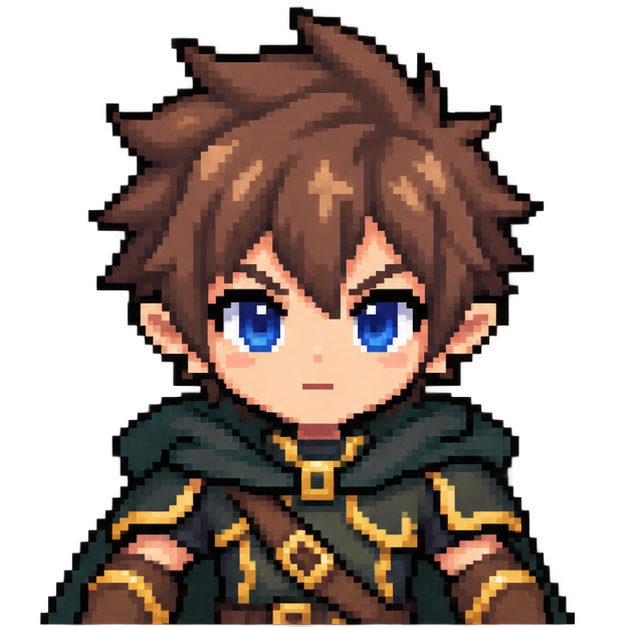
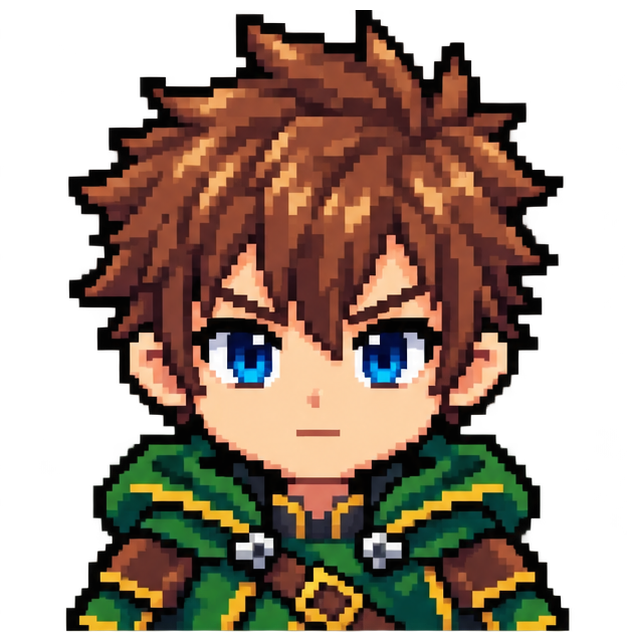
地下迷宮ビルダーズ: ストーリー試作を全8表情(驚き/照れ/あせり/悪い笑み追加)に対応し、全40通りの表情を使ったコントに刷新
- 新素材の2x2シート(yuusya2/yumi/yumi2/koorinomadoushi2/souryo2/maou2)を切り出し、5キャラ×新4表情=20枚と、弓使いの新デザイン基本4表情を生成
- 上下段の境目は胴体の下端をそろえて切り出し（上段下端の混入なしを確認）
- 台詞は3回の見返しで修正：話題転換の唐突さ、表情と台詞のずれ、矛盾（帰る→ポスター発覚の順序）、返事の抜け、オチのつながりなどを直した
- 全セリフが1行に収まることと、5キャラ×8表情の網羅を機械検証済み

diff --git a/ChimyakuDungeon/story_test.html b/ChimyakuDungeon/story_test.html
@@ -130,7 +130,7 @@
 </div>
 
 <script>
-// ==== 登場キャラクター：images/kao/<ファイル接頭辞>_<表情>.png（normal/smile/angry/cry） ====
+// ==== 登場キャラクター：images/kao/<ファイル接頭辞>_<表情>.png（normal/smile/angry/cry/surprise/shy/panic/grin の8表情） ====
 const CHARACTERS = {
     maou:       { label:'魔王',           prefix:'maou1' },
     swordsman:  { label:'勇者（剣士・男）', prefix:'swordsman_m' },
@@ -138,46 +138,77 @@ const CHARACTERS = {
     archer:     { label:'弓使い（男）',    prefix:'archer_m' },
     ice_mage:   { label:'氷の魔導士（女）', prefix:'ice_mage_f' },
 };
-const EXPR_LABEL = { normal:'通常', smile:'笑顔', angry:'怒り', cry:'涙' };
+const EXPR_LABEL = { normal:'通常', smile:'笑顔', angry:'怒り', cry:'涙', surprise:'驚き', shy:'照れ', panic:'あせり', grin:'悪い笑み' };
 function exprFile(charKey, expr){ return `images/kao/${CHARACTERS[charKey].prefix}_${expr}.png`; }
 
 // ==== テスト用の台詞データ（本編では別ファイル・JSONなどに切り出す想定） ====
-// 5キャラ×4表情（通常・笑顔・怒り・涙）が最低1回ずつ出るように、玉座の間でのコメディな対決を組んである
+// 5キャラ×8表情（通常・笑顔・怒り・涙・驚き・照れ・あせり・悪い笑み）の全40通りが最低1回ずつ出るように、玉座の間でのコメディな対決を組んである
 // （難しい漢字はなるべく使わず、シリアスになりすぎないようにしてある）
 const SCRIPT = [
-    // ---- 対面：それぞれの第一声 ----
-    { char:'maou',      expr:'normal', text:'……よし、ついに勇者たちが来たか。よーし、かっこよく決めるぞ。' },
-    { char:'swordsman', expr:'normal', text:'ここが魔王の部屋か……なんか、ちょっと汚いな。' },
-    { char:'priest',    expr:'normal', text:'魔王さん、お掃除してないんですね……。' },
-    { char:'archer',    expr:'smile',  text:'よし、はりきっていくぞ！ 今日は調子がいいぞ！' },
-    { char:'ice_mage',  expr:'normal', text:'……ねえ、お菓子、持ってきた？' },
-    // ---- 魔王のあいさつ、開戦 ----
-    { char:'maou',      expr:'smile',  text:'くくく、よく来たな人間ども！ このワシが相手だぞ！' },
-    { char:'swordsman', expr:'angry',  text:'うわっ、急に大きい声出すなよ！ びっくりしたじゃないか！' },
-    { char:'maou',      expr:'angry',  text:'び、びっくりさせるのが仕事なんだよ！ もっと本気でこわがれ！' },
-    { char:'ice_mage',  expr:'angry',  text:'……じゃあ、本気出すね。えいっ。' },
-    // ---- 戦闘：一進一退 ----
-    { char:'archer',    expr:'normal', text:'よーし、矢を飛ばすぞ……あれ？ 矢、忘れてきた。' },
-    { char:'priest',    expr:'smile',  text:'大丈夫です、私が持ってます！ はい、どうぞ！' },
-    { char:'maou',      expr:'smile',  text:'ほう、なかなかやるな……って、まだ準備中じゃないか！' },
-    { char:'swordsman', expr:'cry',    text:'痛い！ 痛いって！ そんなに強くたたかないでくれ！' },
-    { char:'priest',    expr:'angry',  text:'魔王さん、もうちょっと優しくしてあげてください！' },
-    { char:'archer',    expr:'angry',  text:'よし、矢が届いた！ 今度は本気で行くぞ！' },
-    { char:'ice_mage',  expr:'smile',  text:'……当たった。えらいえらい、自分をほめよう。' },
-    // ---- 魔王、くずれる ----
-    { char:'maou',      expr:'cry',    text:'え……うそ、もう負けそうなの……？ 早すぎない……？' },
-    { char:'maou',      expr:'angry',  text:'ま、まだまだ！ ワシはあきらめないぞ！' },
-    { char:'priest',    expr:'cry',    text:'あれ、魔力切れちゃった……ごめんなさい……。' },
-    { char:'swordsman', expr:'smile',  text:'大丈夫、あとは僕にまかせて！ みんな、よく頑張った！' },
-    { char:'archer',    expr:'cry',    text:'……なんか、感動してきた。泣いてないぞ、これはただの汗だ。' },
-    { char:'ice_mage',  expr:'cry',    text:'……みんな、あったかい。なんか、うれしい。' },
-    // ---- 決着、そしてそのあと ----
-    { char:'maou',      expr:'cry',    text:'……あーあ、負けちゃった。今日のごはん、何にしようかな……。' },
-    { char:'swordsman', expr:'normal', text:'よし、終わったな。みんな、けがはないか？' },
-    { char:'priest',    expr:'smile',  text:'はい！ みなさんのおかげです、ありがとうございます！' },
-    { char:'archer',    expr:'smile',  text:'へへっ、やっぱり僕たち、最強だな！' },
-    { char:'ice_mage',  expr:'normal', text:'……帰ろう。お腹すいた。' },
-    { char:'maou',      expr:'normal', text:'まってろよー！ 次はもっと部屋をきれいにして、お菓子も用意して待ってるからなー！' },
+    // ---- 第1幕：魔王のひとり練習 ----
+    { char:'maou',      expr:'normal',   text:'よし、だれもいないな。今のうちに、かっこいい登場のれんしゅうをするぞ。' },
+    { char:'maou',      expr:'smile',    text:'くくく……よく来たな、勇者どもよ！ ……うん、いい声が出た！' },
+    { char:'maou',      expr:'grin',     text:'つぎはマントさばきだ。見よ、このワシの……バサァッ！' },
+    { char:'swordsman', expr:'surprise', text:'うわっ！ 魔王がひとりでポーズしてる！' },
+    { char:'maou',      expr:'surprise', text:'ひえっ！？ ゆ、勇者！？ いつからそこに！？' },
+    { char:'swordsman', expr:'normal',   text:'「バサァッ！」のところからだ。' },
+    { char:'maou',      expr:'shy',      text:'うう……見られてたのか……。はずかしい……。' },
+    { char:'priest',    expr:'shy',      text:'い、いえ、とってもお上手でしたよ？ ぱちぱち……。' },
+    { char:'maou',      expr:'angry',    text:'なぐさめるな！ ワシは、こわーい魔王なんだぞ！' },
+    // ---- 第2幕：お菓子はありますか ----
+    { char:'ice_mage',  expr:'normal',   text:'……ねえ。お菓子、ある？' },
+    { char:'maou',      expr:'panic',    text:'お、お菓子！？ ない！ ないぞ！ 魔王城にお菓子なんて、ぜったいないぞ！' },
+    { char:'ice_mage',  expr:'cry',      text:'……ない。……お菓子、たのしみに、来たのに……。' },
+    { char:'maou',      expr:'surprise', text:'な、泣くな！ お菓子はないが、ほこりならたっぷりあるぞ！' },
+    { char:'priest',    expr:'normal',   text:'魔王さん、それはじまんになりませんよ……。' },
+    { char:'maou',      expr:'grin',     text:'ふっふっふ、これはほこりではない。魔王のオーラだ！' },
+    { char:'archer',    expr:'normal',   text:'いや、どう見てもほこりだろ。' },
+    { char:'swordsman', expr:'angry',    text:'おしゃべりはここまでだ！ 世界の平和のために、魔王をたおす！' },
+    // ---- 第3幕：ゆるすぎる戦い ----
+    { char:'archer',    expr:'smile',    text:'まかせろ！ 今日のオレは、ぜっこうちょうだぜ！' },
+    { char:'archer',    expr:'grin',     text:'見てろよ。魔王のマントを、ズバッと矢でつらぬいてやる！' },
+    { char:'archer',    expr:'panic',    text:'あれっ！？ 矢がない！ 家にわすれてきた！' },
+    { char:'maou',      expr:'smile',    text:'あははは！ 矢がないとは、まぬけだなあ！ これはワシの勝ちだな！' },
+    { char:'priest',    expr:'grin',     text:'あら、それなら……わたしが、ぽかぽかしてあげますね。' },
+    { char:'swordsman', expr:'panic',    text:'ちょっ、僧侶さん！？ 回復役なのに、杖でなぐってる！？' },
+    { char:'maou',      expr:'cry',      text:'いたっ！ いたい！ そ、そんなにたたかないでくれ……！' },
+    { char:'priest',    expr:'surprise', text:'あら！？ 杖がぐにゃっとまがってしまいました！' },
+    { char:'maou',      expr:'angry',    text:'もう怒ったぞ！ くらえ、必殺、魔王ビーム！' },
+    { char:'maou',      expr:'panic',    text:'……あれ？ 出ない！ ま、まってくれ！ 今日は充電が足りないだけなんだ！' },
+    { char:'ice_mage',  expr:'angry',    text:'……お菓子、ない。……ゆるさない。えいっ。' },
+    { char:'maou',      expr:'surprise', text:'つ、つめたっ！ ワシの玉座が、カチコチだー！' },
+    // ---- 第4幕：魔王ダウン、そして…… ----
+    { char:'maou',      expr:'cry',      text:'うわあああん！ もう帰ってよー！ 勇者なんて、大きらいだー！' },
+    { char:'swordsman', expr:'surprise', text:'えっ、泣いた！？ ぼ、ぼくたちが悪いのか！？' },
+    { char:'priest',    expr:'angry',    text:'みなさん！ 泣いている子をいじめてはいけません！' },
+    { char:'swordsman', expr:'normal',   text:'いや、いちばんなぐってたのは僧侶さんですよね？' },
+    { char:'archer',    expr:'cry',      text:'ぐすっ……なんか、かわいそうになってきた……。' },
+    { char:'ice_mage',  expr:'grin',     text:'……ふふ。でも、あやしい。あそこの箱から、あまいにおいがする。' },
+    { char:'maou',      expr:'panic',    text:'あっ、そ、そこはだめだ！ あけたらだめだー！' },
+    { char:'ice_mage',  expr:'surprise', text:'……あった。お菓子。こんなに、いっぱい。' },
+    { char:'maou',      expr:'shy',      text:'じ、じつは……お客さん用に、買っておいたんだ。はずかしくて、言えなくて……。' },
+    { char:'priest',    expr:'cry',      text:'まあ……ずっと、ひとりで待っていたんですね……ぐすっ。' },
+    { char:'swordsman', expr:'cry',      text:'いい魔王じゃないか……。ぼく、なんだか感動して……。' },
+    // ---- 第5幕：お茶会 ----
+    { char:'priest',    expr:'smile',    text:'では、みなさんで、お茶にしましょう！' },
+    { char:'ice_mage',  expr:'smile',    text:'……いただきます。……おいしい。' },
+    { char:'ice_mage',  expr:'panic',    text:'……あ。まちがえて、お菓子まで、こおらせちゃった。' },
+    { char:'maou',      expr:'smile',    text:'だいじょうぶだ！ かたいお菓子は、なめるとおいしいぞ！ ……たぶん！' },
+    { char:'ice_mage',  expr:'shy',      text:'……ありがとう。また、来てもいい？' },
+    { char:'maou',      expr:'smile',    text:'もちろんだ！ 毎日でも来ていいぞ！' },
+    { char:'archer',    expr:'surprise', text:'あれ？ ポケットになにか……あっ、矢だ！ ここに入ってた！' },
+    { char:'swordsman', expr:'smile',    text:'あははは！ 家じゃなくて、ずっとポケットの中か！' },
+    { char:'archer',    expr:'angry',    text:'わ、笑うなよ！ だれだって、わすれることはあるだろ！' },
+    { char:'maou',      expr:'normal',   text:'その矢、記念にワシにくれないか。かざりたい。' },
+    { char:'archer',    expr:'shy',      text:'え、記念に？ ……へへ、てれるな。' },
+    { char:'swordsman', expr:'grin',     text:'ところで魔王。あの壁のポスター、どう見てもぼくの顔なんだけど？' },
+    { char:'maou',      expr:'angry',    text:'ち、ちがう！ あれは敵をけんきゅうするための、しりょうだ！' },
+    { char:'priest',    expr:'panic',    text:'あわわ、そういえばあそこにも「勇者さまグッズ」がたくさん……！' },
+    { char:'maou',      expr:'shy',      text:'……じつは、ずっと勇者のファンだったんだ。……サイン、ください。' },
+    { char:'swordsman', expr:'shy',      text:'え、ぼくのファン！？ ……て、てれるなあ。' },
+    { char:'swordsman', expr:'smile',    text:'しかたないな！ サイン、書いてあげるよ！' },
+    { char:'ice_mage',  expr:'normal',   text:'……ねえ。おかわりは？' },
+    { char:'maou',      expr:'grin',     text:'たっぷり食べるがいい！ 次までに、このオーラ……いや、ほこりをそうじしておくぞ！' },
 ];
 
 let idx = 0;
